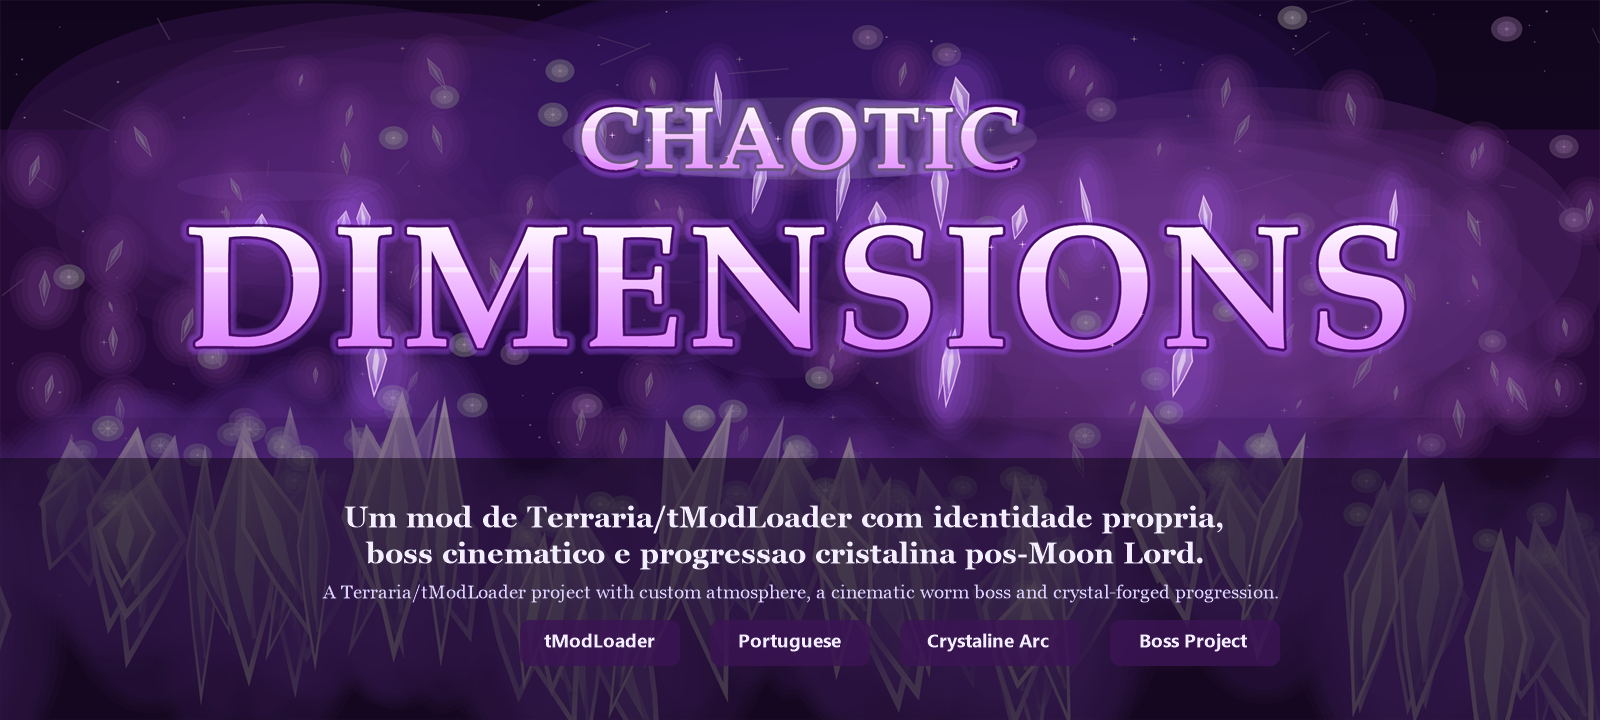
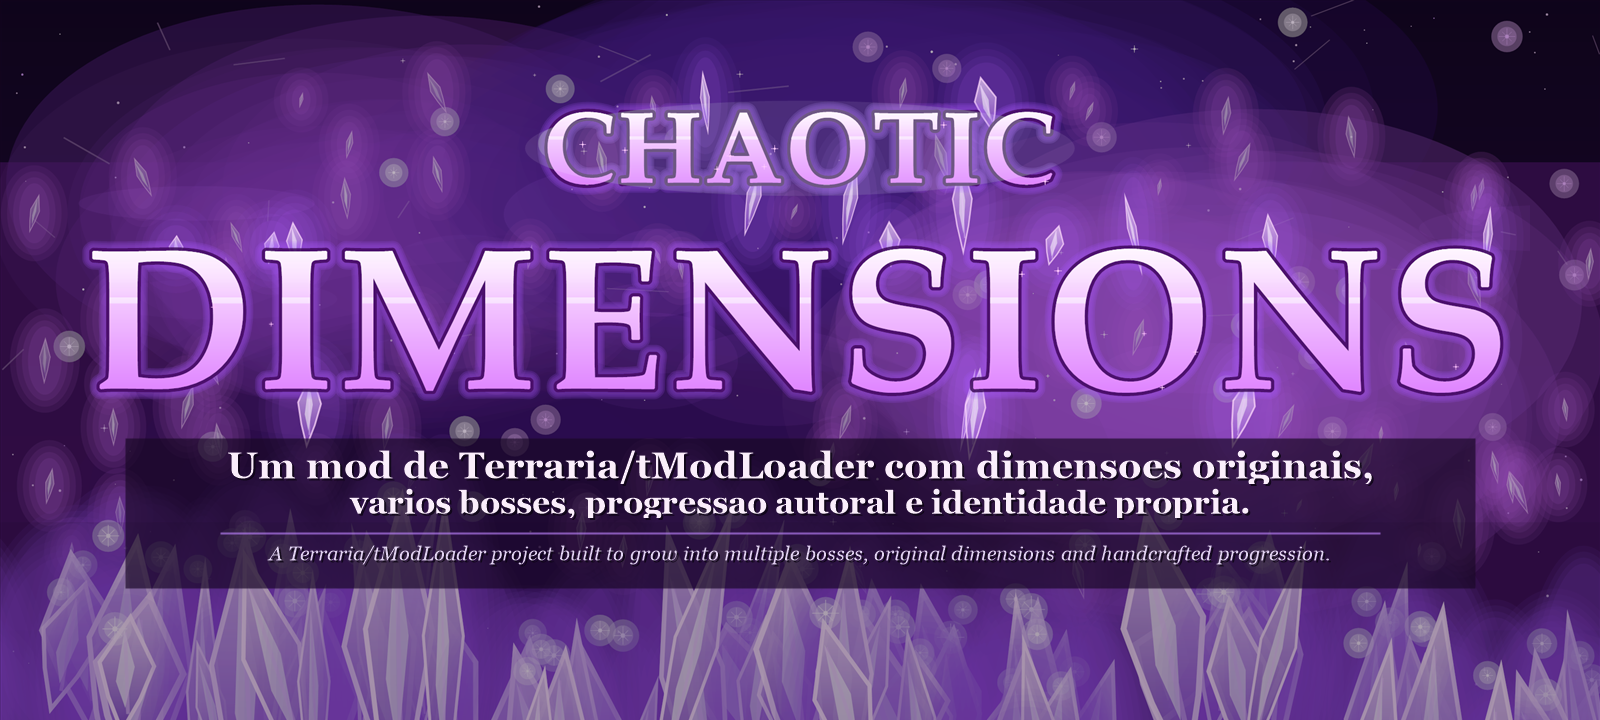
README

diff --git a/README.md b/README.md
@@ -3,151 +3,76 @@
 </div>
 
 <p align="center">
-  <strong>Chaotic Dimensions</strong> e um mod autoral para <strong>Terraria / tModLoader</strong>, criado como projeto de TCC em Portugal e focado em atmosfera cosmica, cristais, encontros cinematograficos e conteudo pos-Moon Lord.
+  <strong>Chaotic Dimensions</strong> e um mod autoral para <strong>Terraria / tModLoader</strong>, criado como projeto de TCC em Portugal e pensado para crescer como um universo proprio, com varios bosses, progressoes, biomas, dimensoes e encounters com identidade forte.
   <br />
-  <em>Chaotic Dimensions is an original Terraria / tModLoader mod project focused on crystal-cosmic atmosphere, cinematic encounters and handcrafted post-Moon Lord content.</em>
+  <em>Chaotic Dimensions is an original Terraria / tModLoader project designed to grow into its own universe, with multiple bosses, handcrafted progression, new biomes, dimensions and high-identity encounters.</em>
 </p>
 
 <p align="center">
   <img src="https://img.shields.io/badge/tModLoader-Mod-7c3aed?style=for-the-badge" alt="tModLoader Mod" />
-  <img src="https://img.shields.io/badge/Terraria-Post--Moon%20Lord-a855f7?style=for-the-badge" alt="Post Moon Lord" />
-  <img src="https://img.shields.io/badge/Status-Em%20Desenvolvimento-c084fc?style=for-the-badge" alt="Status Em Desenvolvimento" />
-  <img src="https://img.shields.io/badge/Idioma-PT%20%2F%20EN-9333ea?style=for-the-badge" alt="Idioma PT EN" />
+  <img src="https://img.shields.io/badge/Terraria-Original%20Content-a855f7?style=for-the-badge" alt="Original Content" />
+  <img src="https://img.shields.io/badge/Vision-Multi--Boss-c084fc?style=for-the-badge" alt="Multi Boss Vision" />
+  <img src="https://img.shields.io/badge/Status-Em%20Desenvolvimento-9333ea?style=for-the-badge" alt="Status Em Desenvolvimento" />
+  <img src="https://img.shields.io/badge/Idioma-PT%20%2F%20EN-7e22ce?style=for-the-badge" alt="Idioma PT EN" />
 </p>
 
-## Visao Geral
+## Sobre o Projeto
 
-Chaotic Dimensions nasceu com a proposta de construir uma identidade visual e mecanica propria dentro do universo de Terraria. A ideia central do projeto e misturar fantasia cristalina, atmosfera cosmica, apresentacao estilizada e um boss principal que pareca memoravel tanto no combate quanto no impacto visual.
+Chaotic Dimensions nasceu para ser mais do que um unico boss ou um unico arco de conteudo. A ideia do projeto e construir uma linha propria dentro do universo de Terraria: direcao visual forte, atmosfera cosmica e cristalina, bosses marcantes, progressao autoral e uma sensacao de expansao continua.
 
-Atualmente o mod ja conta com boss customizado, arena tematica, ceu proprio, musica dedicada, barra de vida personalizada, itens exclusivos, armas para multiplas classes, acessorio utilitario, consumiveis e uma armadura modular inspirada no `Crystaline Devour`.
+O `Crystaline Devour` e apenas o primeiro boss oficial dessa fundacao. Ele representa o inicio da identidade do mod, nao o unico foco dela.
 
-## Showcase Atual
+## Visao
 
-![Current Crystaline Showcase](.github/readme/showcase.png)
+- Criar varios bosses com apresentacao, mecanicas e ambientacao proprias.
+- Expandir o mod com itens, armas, armaduras, acessorios e sistemas originais.
+- Construir encounters com intro, musica, boss bar, sky e arena personalizados.
+- Misturar fantasia cristalina, escala cosmica e estilo autoral em uma progressao pos-Moon Lord.
 
-## Conteudo Atual
+## Fundacoes Ja Implementadas
 
-### Boss Principal
+Atualmente o projeto ja possui a primeira base jogavel do universo `Chaotic Dimensions`:
 
-**Crystaline Devour / Crystaline Devourer**
-
-- Intro/cutscene de invocacao com title card.
-- Musica propria da luta.
-- Sky e coloracao tematica durante o encounter.
+- Primeiro boss oficial: `Crystaline Devour / Crystaline Devourer`.
+- Intro/cutscene para invocacao do encounter.
 - Boss bar customizada.
-- Arena cristalina para fechar o combate em uma area controlada.
-- Padroes de ataque com pressao de projeteis, mobilidade de worm e `Sky Blaster`.
-- Encontro encerrado automaticamente quando todos os jogadores morrem, limpando arena e efeitos visuais.
+- Musica propria da luta.
+- Sky e coloracao tematica durante o combate.
+- Arena cristalina para controlar o encontro.
+- Arsenal cristalino inicial com armas para classes diferentes.
+- Acessorios e consumiveis exclusivos.
+- Armadura modular `Crystaline Devour Armor`.
+- Sistemas de buffs e efeitos especiais ligados a equipamentos.
 
-### Arsenal e Itens
+## Primeiro Marco Oficial
 
-| Item | Categoria | Estado atual | Destaque |
-| --- | --- | --- | --- |
-| `Crystaline Sigil` | Summon | Implementado | Invoca o boss e dispara a intro do encounter. |
-| `Crystaline Tear` | Material | Implementado | Material principal da progressao cristalina. |
-| `Crystaline Potion` | Consumivel | Implementado | Cura `250` de vida, melhora regeneracao e reduz o potion sickness. |
-| `Crystaline Eye` | Acessorio | Implementado | `25` de defesa, bonus de mobilidade e teleporte no clique direito com impulso direcional. |
-| `Crystaline Sword` | Melee | Implementado | Arma rara do boss com lamina central, espadas orbitais e sustain via cura ao acertar. |
-| `Crystaline Staff` | Magic | Implementado | Disparo magico multiplo com spread cristalino. |
-| `Crystaline Gun` | Ranged | Implementado | Arma extremamente rapida baseada em pressao continua de tiros. |
+O `Crystaline Devour` e o primeiro boss oficial do projeto e funciona como a primeira grande demonstracao da direcao que o mod quer seguir:
 
-### Armadura Crystaline Devour
-
-O set foi desenhado como uma armadura modular: peitoral e grevas sao compartilhados, enquanto o capacete define a classe e muda completamente o perfil do conjunto.
-
-| Peca / Variante | Classe | Defesa total do set | Destaque |
-| --- | --- | --- | --- |
-| `Crystaline Devour Melee Helm` | Melee | `250` | Dano melee massivo, velocidade melee e mobilidade elevada. |
-| `Crystaline Devour Magic Helm` | Magic | `150` | Dano magico extremo e custo de mana quase nulo. |
-| `Crystaline Devour Ranged Helm` | Ranged | `210` | Altissima cadencia, dano ranged elevado e economia pesada de municao. |
-| `Crystaline Devour Summoner Helm` | Summoner | `99` | Dano summoner absurdo, `+10` minions e bonus de mobilidade. |
-| `Crystaline Devour Breastplate` | Universal | Compartilhado | Nucleo visual e defensivo da armadura. |
-| `Crystaline Devour Greaves` | Universal | Compartilhado | Base do set e mobilidade complementar. |
-
-**Bonus especial do set**
-
-- Todos os sets ativam uma protecao de `10 segundos` de imortalidade ao receber dano.
-- A protecao entra em cooldown de `3 minutos` antes de poder ativar novamente.
-
-### Buffs e Sistemas de Suporte
-
-| Sistema / Buff | Funcao |
-| --- | --- |
-| `Crystaline Potion Regeneration` | Regeneracao adicional elevada. |
-| `Crystaline Potion Fortitude` | Defesa extra ao consumir a pocao. |
-| `Crystaline Rush` | Velocidade e regeneracao apos o teleporte do `Crystaline Eye`. |
-| `Crystaline Devour Aegis` | Estado de invulnerabilidade temporaria ligado ao set da armadura. |
+- Presenca visual forte.
+- Encounter estilizado.
+- Ambiente proprio.
+- Progressao baseada em drops e equipamentos exclusivos.
+- Base tecnica para os proximos bosses, dimensoes e sistemas do mod.
 
 ## Direcao Visual
 
-O projeto ja possui uma linha estetica propria sendo construida:
+Chaotic Dimensions esta sendo construido com foco em identidade. Isso inclui:
 
-- Fundo cosmico-cristalino para o encounter do boss.
-- Titulo customizado para o menu do mod.
-- Preview visual da armadura `Crystaline Devour`.
-- Title card exclusiva para a apresentacao do boss.
+- Menu proprio.
+- Backgrounds e skies personalizados.
+- Title cards para encounters importantes.
+- Armaduras e itens com linha visual dedicada.
+- Apresentacao pensada para parecer parte de um universo maior.
 
-## Espaco para Screenshots, GIFs e Videos
-
-Esta parte do README ja esta preparada para voce plugar sua midia propria conforme o projeto for evoluindo.
-
-### Placeholder de midia
-
-![Media Placeholder](.github/readme/media-placeholder.png)
-
-### Exemplo para screenshot
-
-```md
-![Crystaline Devour boss fight](.github/readme/my-boss-fight.png)
-```
-
-### Exemplo para GIF
-
-```md
-![Crystaline Devour dash showcase](.github/readme/my-dash-showcase.gif)
-```
-
-### Exemplo para video
-
-```md
-[![Assista ao video](.github/readme/media-placeholder.png)](https://www.youtube.com/watch?v=SEU_VIDEO)
-```
-
-### Sugestoes de blocos para galeria
-
-Voce pode usar blocos assim no futuro:
-
-```md
-## Boss Fight Gallery
-
-![Arena do Crystaline Devour](.github/readme/boss-arena-01.png)
-![Sky do encounter](.github/readme/boss-sky-01.png)
-
-## GIF Highlights
-
-![Movimentacao da worm](.github/readme/worm-movement.gif)
-![Sky Blaster showcase](.github/readme/sky-blaster.gif)
-
-## Trailer / Gameplay
-
-[![Trailer do projeto](.github/readme/media-placeholder.png)](https://www.youtube.com/watch?v=SEU_VIDEO)
-```
-
-## Estrutura do Projeto
+## Estrutura do Repositorio
 
 ```text
 ChaoticDimensions/
 |- Content/
 |  |- BossBars/
-|  |- Bosses/CrystalineDevourer/
+|  |- Bosses/
 |  |- Buffs/
 |  |- Items/
-|  |  |- Accessories/
-|  |  |- Armor/CrystalineDevour/
-|  |  |- Consumables/
-|  |  |- Materials/
-|  |  |- Summons/
-|  |  `- Weapons/
 |  |- Players/
 |  |- Projectiles/
 |  `- Scenes/
@@ -156,7 +81,7 @@ ChaoticDimensions/
 |  |- Menus/
 |  |- Systems/
 |  `- Tiles/
-|- Assets/UI/
+|- Assets/
 |- .github/readme/
 `- tools/
 ```
@@ -167,24 +92,16 @@ ChaoticDimensions/
 dotnet build ChaoticDimensions.csproj
 ```
 
-O projeto foi pensado para desenvolvimento em `tModLoader ModSources`, entao a forma mais pratica de testar e compilar e abrir o mod diretamente pelo ambiente do Terraria/tModLoader.
-
-## Status do Projeto
-
-- Boss principal ja jogavel.
-- Arsenal cristalino base ja implementado.
-- Armadura modular `Crystaline Devour` ja integrada.
-- README e assets do repositorio preparados para apresentacao publica.
-- Polimento visual, balanceamento fino e expansao de conteudo ainda em andamento.
+O projeto foi pensado para desenvolvimento dentro de `tModLoader ModSources`, entao o fluxo mais pratico e compilar e abrir o mod diretamente pelo ambiente do Terraria / tModLoader.
 
 ## English Snapshot
 
-Chaotic Dimensions is a crystal-cosmic post-Moon Lord Terraria/tModLoader mod project. Right now the repository already includes a custom boss encounter, themed arena and sky, custom music, weapons for multiple classes, a teleport utility accessory, consumables, buffs and a modular armor line with class-specific helmets.
+Chaotic Dimensions is an original Terraria / tModLoader mod project built to become a much larger custom universe over time. The goal is not to center everything around a single boss, but to create a broader identity with multiple bosses, handcrafted progression, original visuals and memorable encounters.
 
-This README is also prepared to receive your own screenshots, GIFs and video links as the project keeps evolving.
+The `Crystaline Devour` is the first official boss of that vision, not the final centerpiece of the whole mod.
 
 ## Creditos
 
 - **Projeto:** `blueDev`
 - **Plataforma:** `Terraria / tModLoader`
-- **Identidade do README:** assets e apresentacao preparados diretamente dentro do repositorio para facilitar showcase publico do projeto.
+- **README:** organizado para apresentar o projeto de forma mais ampla, sem prender o repositorio a um unico boss ou a uma lista de itens temporaria.
